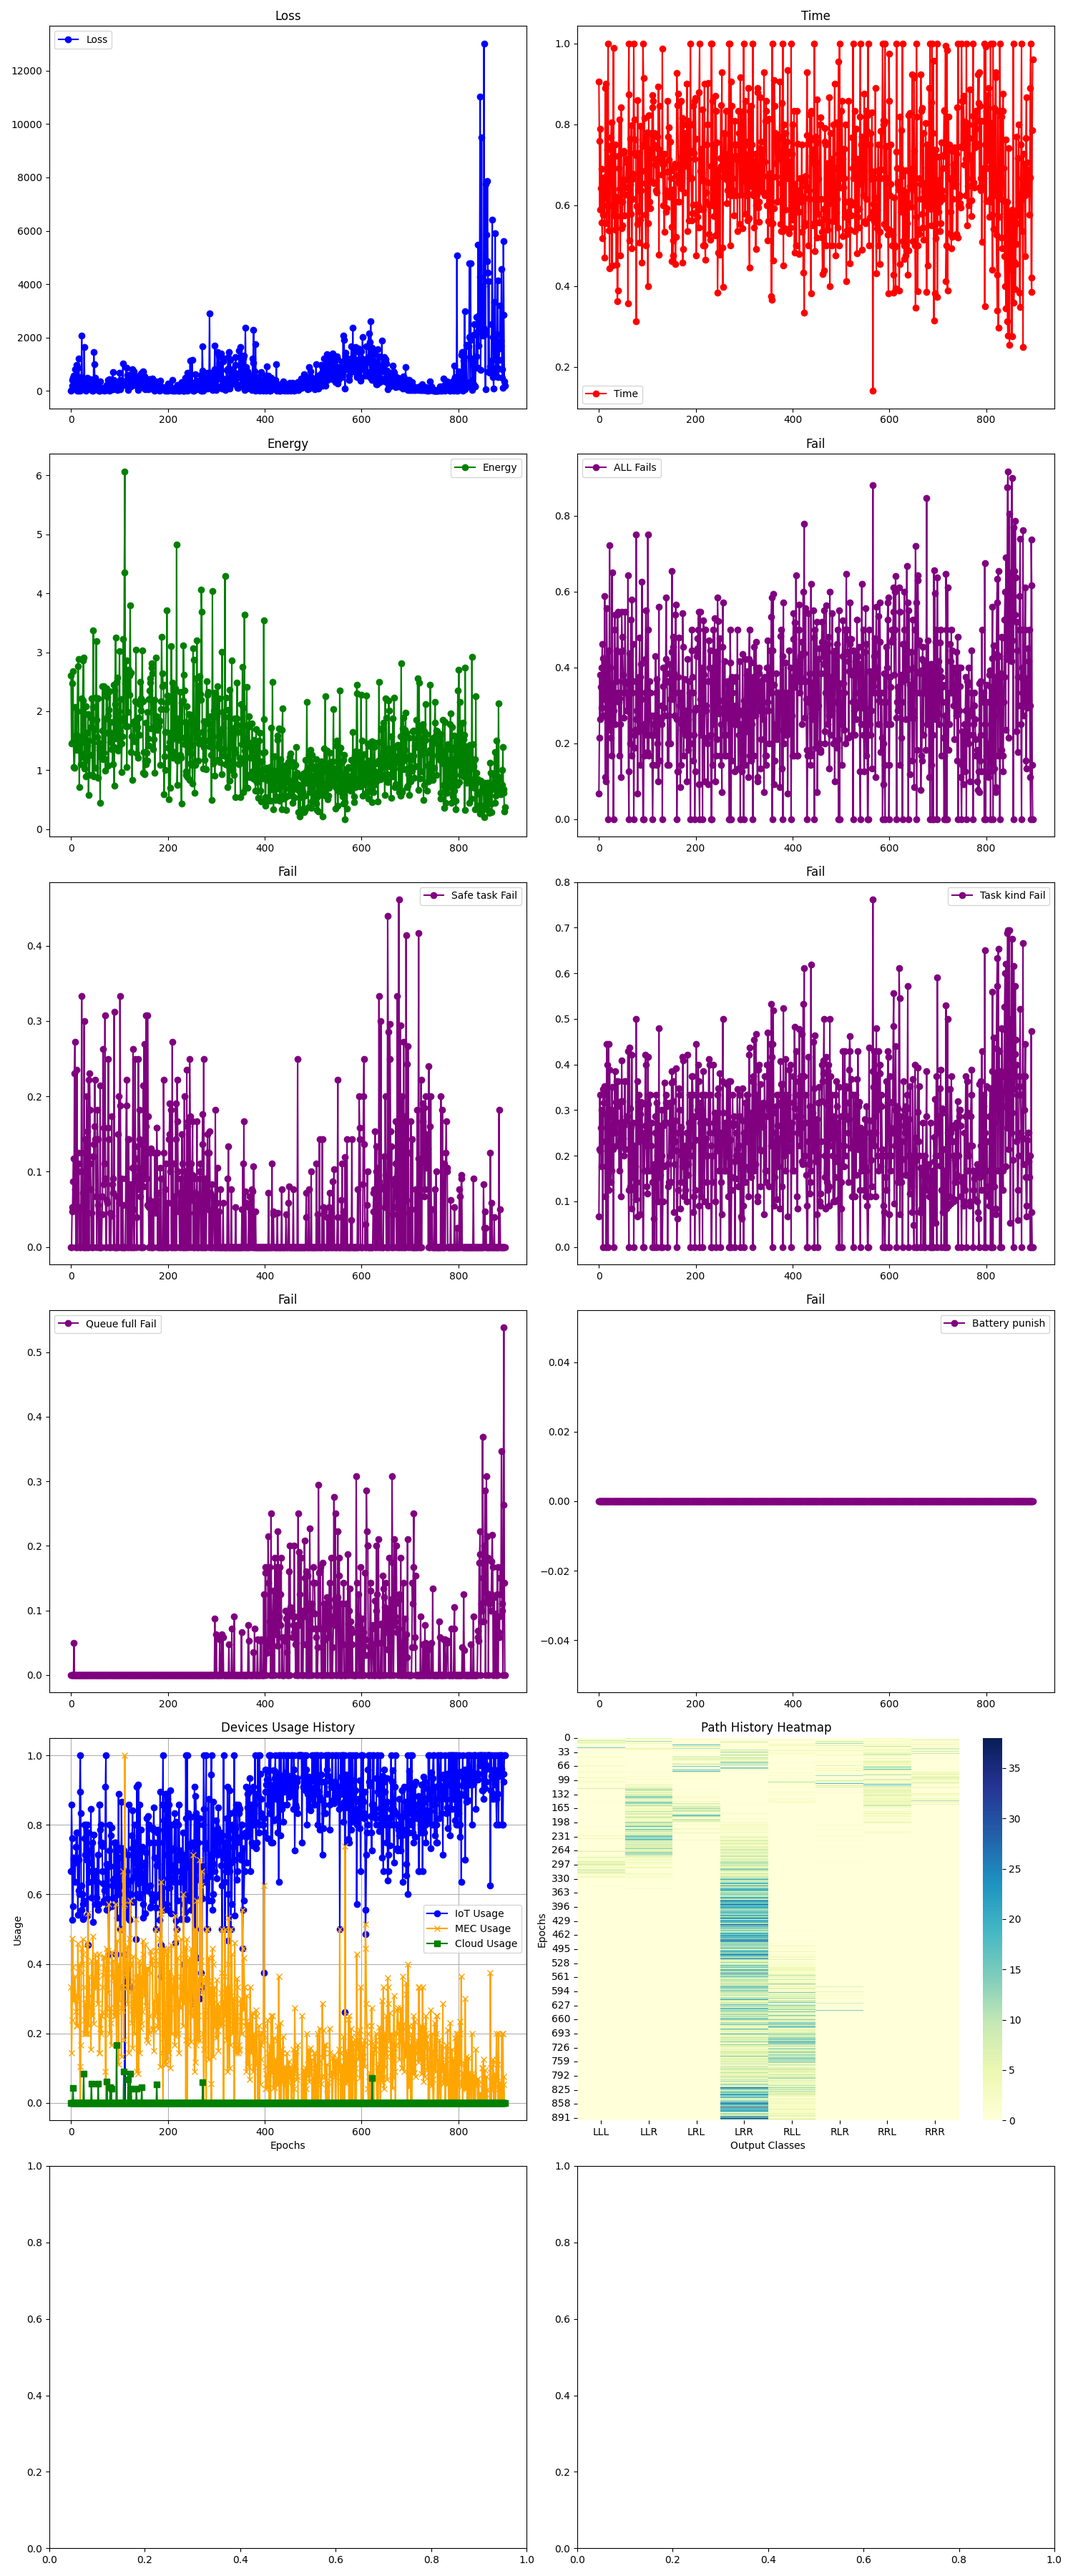
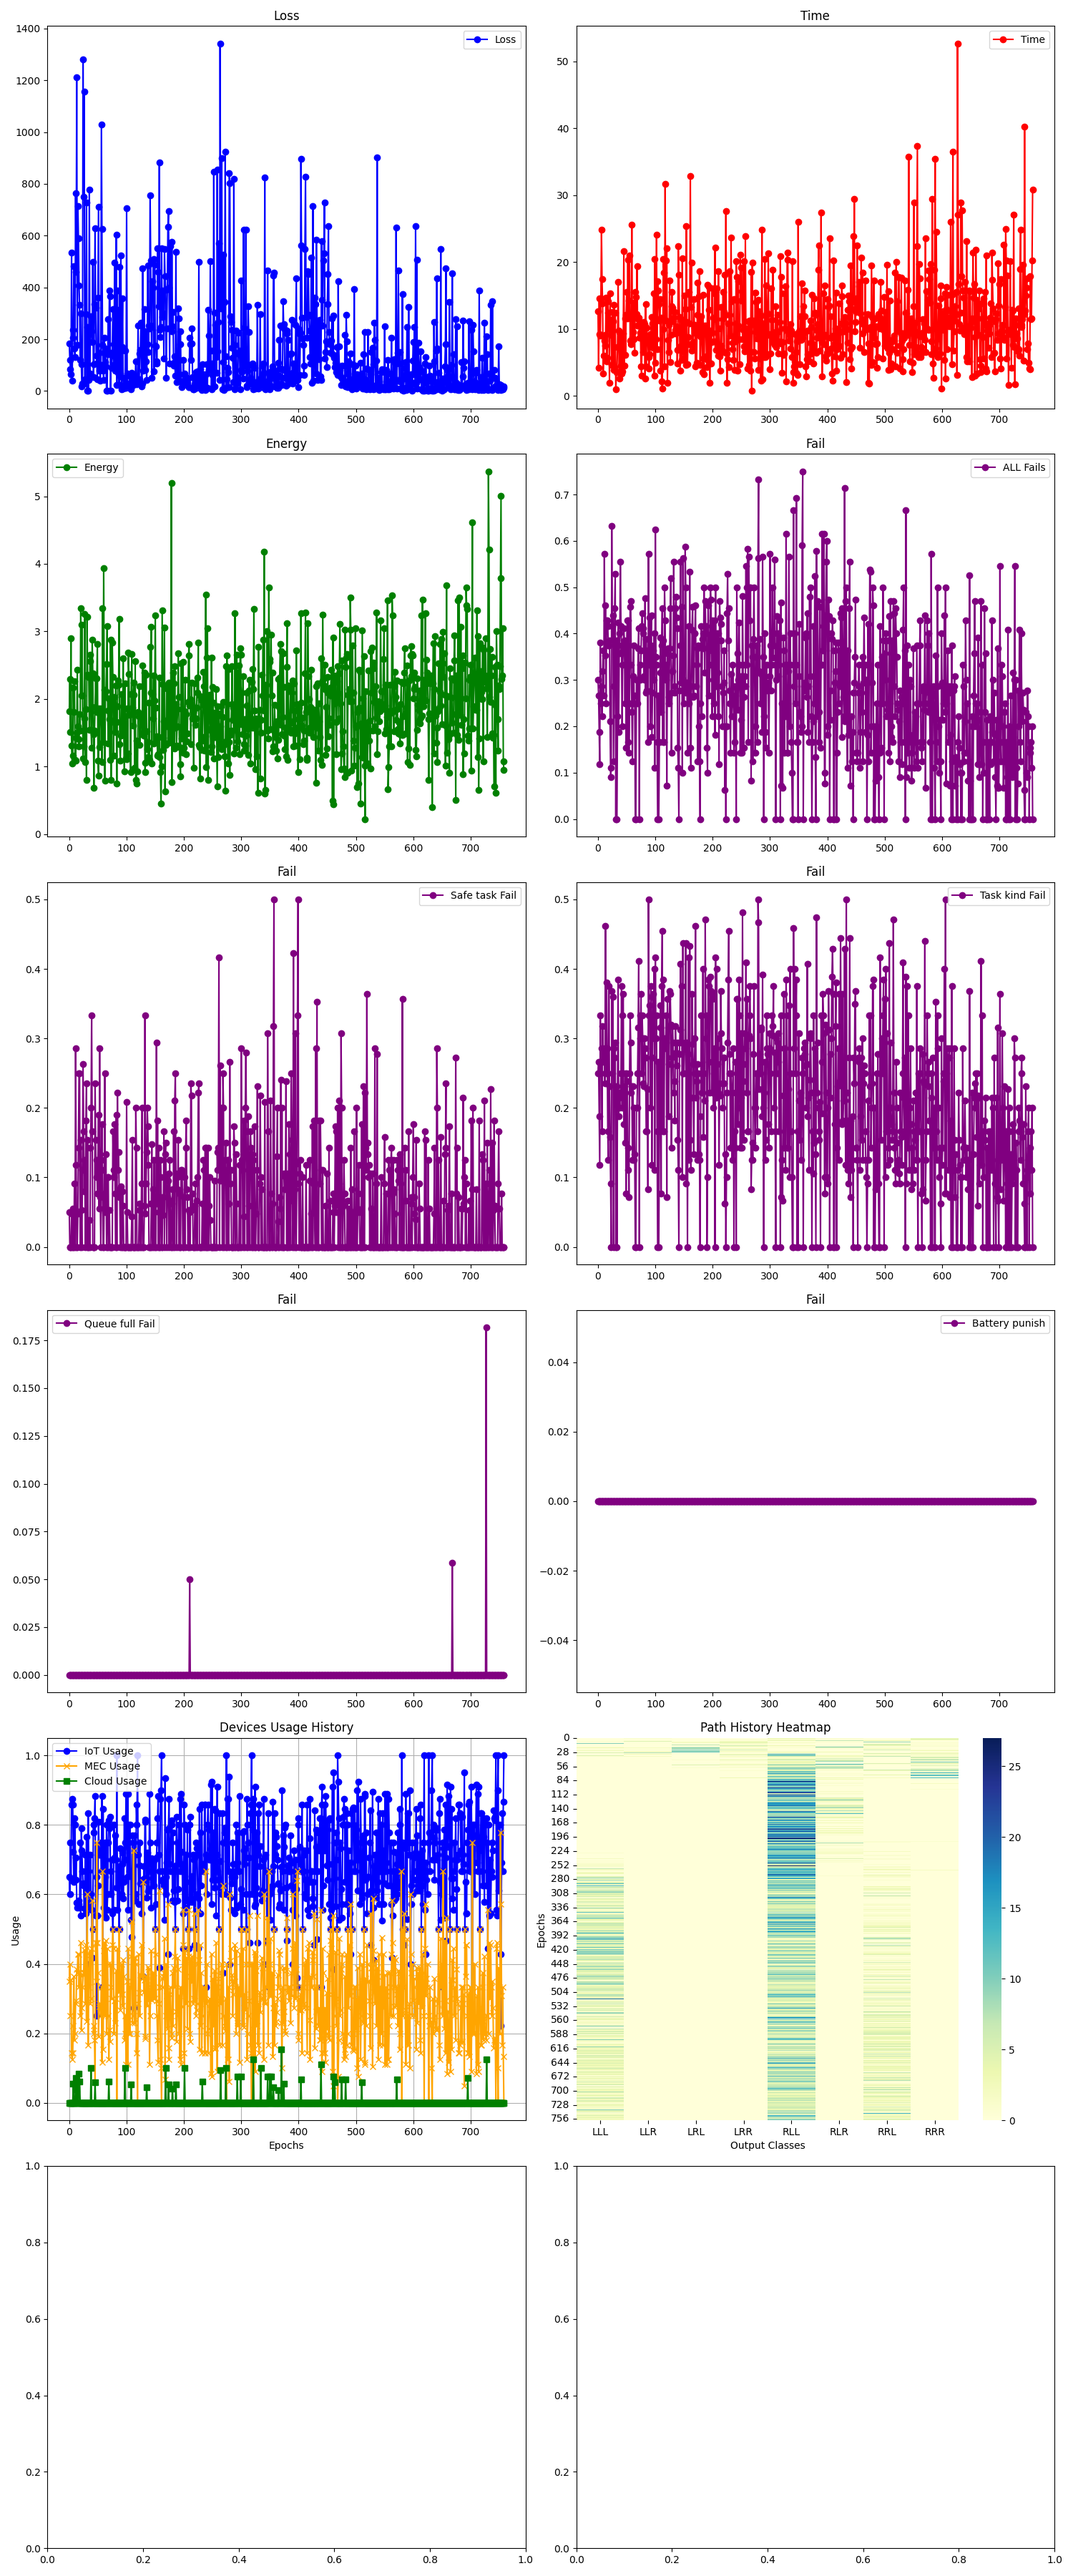
Fix previous commit

diff --git a/model/actor_critic.py b/model/actor_critic.py
@@ -16,7 +16,7 @@ class ActorCritic(nn.Module):
         self.critic = get_critic()  # Critic could be None
         self.checkpoint_file = learning_config['checkpoint_file_path']
         self.reset_memory()
-        
+        self.old_log_probs = [None for _ in range(len(self.devices))]
         
         self.clip_param = learning_config['ppo_epsilon']
         self.gae_lambda = learning_config['gae_lambda']
@@ -26,19 +26,10 @@ class ActorCritic(nn.Module):
         self.states.append(state)
         self.actions.append(action)
         self.rewards.append(reward)
-         # Calculate and store log_prob immediately
-        state_tensor = torch.tensor(state, dtype=torch.float)
-        with torch.no_grad():
-            pi, _, _, _ = self.forward(state_tensor)
-            self.pis.append(pi)
-            probs = F.softmax(pi, dim=-1)
-            dist = Categorical(probs)
-            self.old_log_probs.append(dist.log_prob(torch.tensor(action)).item())
 
     # Clear memory after an episode
     def reset_memory(self):
         self.rewards, self.actions, self.states, self.pis = [], [], [], []
-        self.old_log_probs = []  
 
     # Forward pass through both actor and critic (if present)
     def forward(self, x):
@@ -97,8 +88,6 @@ class ActorCritic(nn.Module):
         probs = F.softmax(pis, dim=-1)
         dist = Categorical(probs)
 
-        # Calculate entropy bonus to prevent collapse
-        entropy = dist.entropy().mean()
         new_log_probs = dist.log_prob(actions)
 
         if learning_config['learning_algorithm'] == "ppo":
@@ -126,6 +115,7 @@ class ActorCritic(nn.Module):
         if self.critic:
             critic_loss = F.mse_loss(values, returns)
 
+        entropy = dist.entropy().mean()
         entropy_coef = 0.00  # Small entropy coefficient
         loss = actor_loss + 0.5 * critic_loss - entropy_coef * entropy
 
@@ -133,21 +123,13 @@ class ActorCritic(nn.Module):
     def compute_gae(self, rewards, values, next_value):
         gae = 0
         returns = []
-        
-        # Reversed GAE calculation
         for step in reversed(range(len(rewards))):
-            if step == len(rewards) - 1:
-                next_val = next_value
-            else:
-                next_val = values[step + 1]
-                
-            delta = rewards[step] + self.discount_factor * next_val - values[step]
+            delta = rewards[step] + self.discount_factor * next_value - values[step]
             gae = delta + self.discount_factor * self.gae_lambda * gae
             
-            # Clip GAE to prevent extreme values
             # gae = torch.clamp(gae, -10.0, 10.0)
             returns.insert(0, gae + values[step])
-            
+            next_value = values[step]
         return torch.tensor(returns)
 
     def update_regressor(self):

diff --git a/environment/state.py b/environment/state.py
@@ -95,8 +95,8 @@ class State:
         with self.lock:
             total_t, total_e  = calc_total(pe,task,[self.db_tasks[pre_id] for pre_id in task["predecessors"]],core_i,0)
             execution_time = total_t
-            if total_t > 1:
-                total_t = 1
+            if execution_time > 1:
+                execution_time = 1
 
             placing_slot = (execution_time, task_ID)
 
@@ -110,7 +110,7 @@ class State:
             if queue_index == -1 and core_index == -1:
                 fail_flags[2] = 1
 
-            if sum(fail_flags) > 0 or (queue_index == -1 and core_index == -1):
+            if sum(fail_flags) > 0:
                 return sum(fail_flags) * reward_function(punish=True), fail_flags, 0, 0
 
 
@@ -146,7 +146,7 @@ class State:
             lambda_gini = learning_config["max_lambda"] * gin
             lambda_penalty = learning_config["alpha_diversity"] * lambda_diversity + learning_config["alpha_gin"] * lambda_gini
 
-        return reward_function(t=total_t + lag_time, e=total_e) + battery_punish, fail_flags, total_e, total_t+ lag_time
+        return reward_function(t=total_t + lag_time, e=total_e) +battery_punish, fail_flags, total_e, total_t+ lag_time
 
 
     def save_agent_log(self, assigned_job, dict, path_history):

diff --git a/environment/util.py b/environment/util.py
@@ -19,9 +19,6 @@ class Utility:
                 (task["input_size"] - inputs[0]) / (inputs[1] - inputs[0]),
                 (task["output_size"] - outputs[0]) / (outputs[1] - outputs[0]),
                 task["is_safe"],
-                task['live_state']["iot_predecessors"],
-                task['live_state']["mec_predecessors"],
-                task['live_state']["cloud_predecessors"]
             ]
         else:
             task_features = [
@@ -29,9 +26,6 @@ class Utility:
                 task["input_size"],
                 task["output_size"],
                 task["is_safe"],
-                task['live_state']["iot_predecessors"],
-                task['live_state']["mec_predecessors"],
-                task['live_state']["cloud_predecessors"]
             ]
 
         if learning_config['onehot_kind']:

diff --git a/model/utils.py b/model/utils.py
@@ -105,7 +105,7 @@ class SharedAdam(Adam):
     to be shared across multiple processes.
     """
 
-    def __init__(self, params, lr=1e-3, betas=(0.9, 0.999), eps=1e-8, weight_decay=0.0, amsgrad=False, **kwargs):
+    def __init__(self, params, lr=0.001, betas=(0.9, 0.999), eps=1e-8, weight_decay=0.0, amsgrad=False, **kwargs):
         """
         Initializes the SharedAdam optimizer with shared states.
         
@@ -194,12 +194,13 @@ def get_tree(devices):
 
 
 def get_num_input():
-    num_input = 8
+    num_input = 5
     if learning_config['onehot_kind']:
-        num_input = 11
+        num_input = 8
     if learning_config['utilization']:
         num_input +=2
     return num_input
+
 
 def get_critic():
     num_input = get_num_input()
